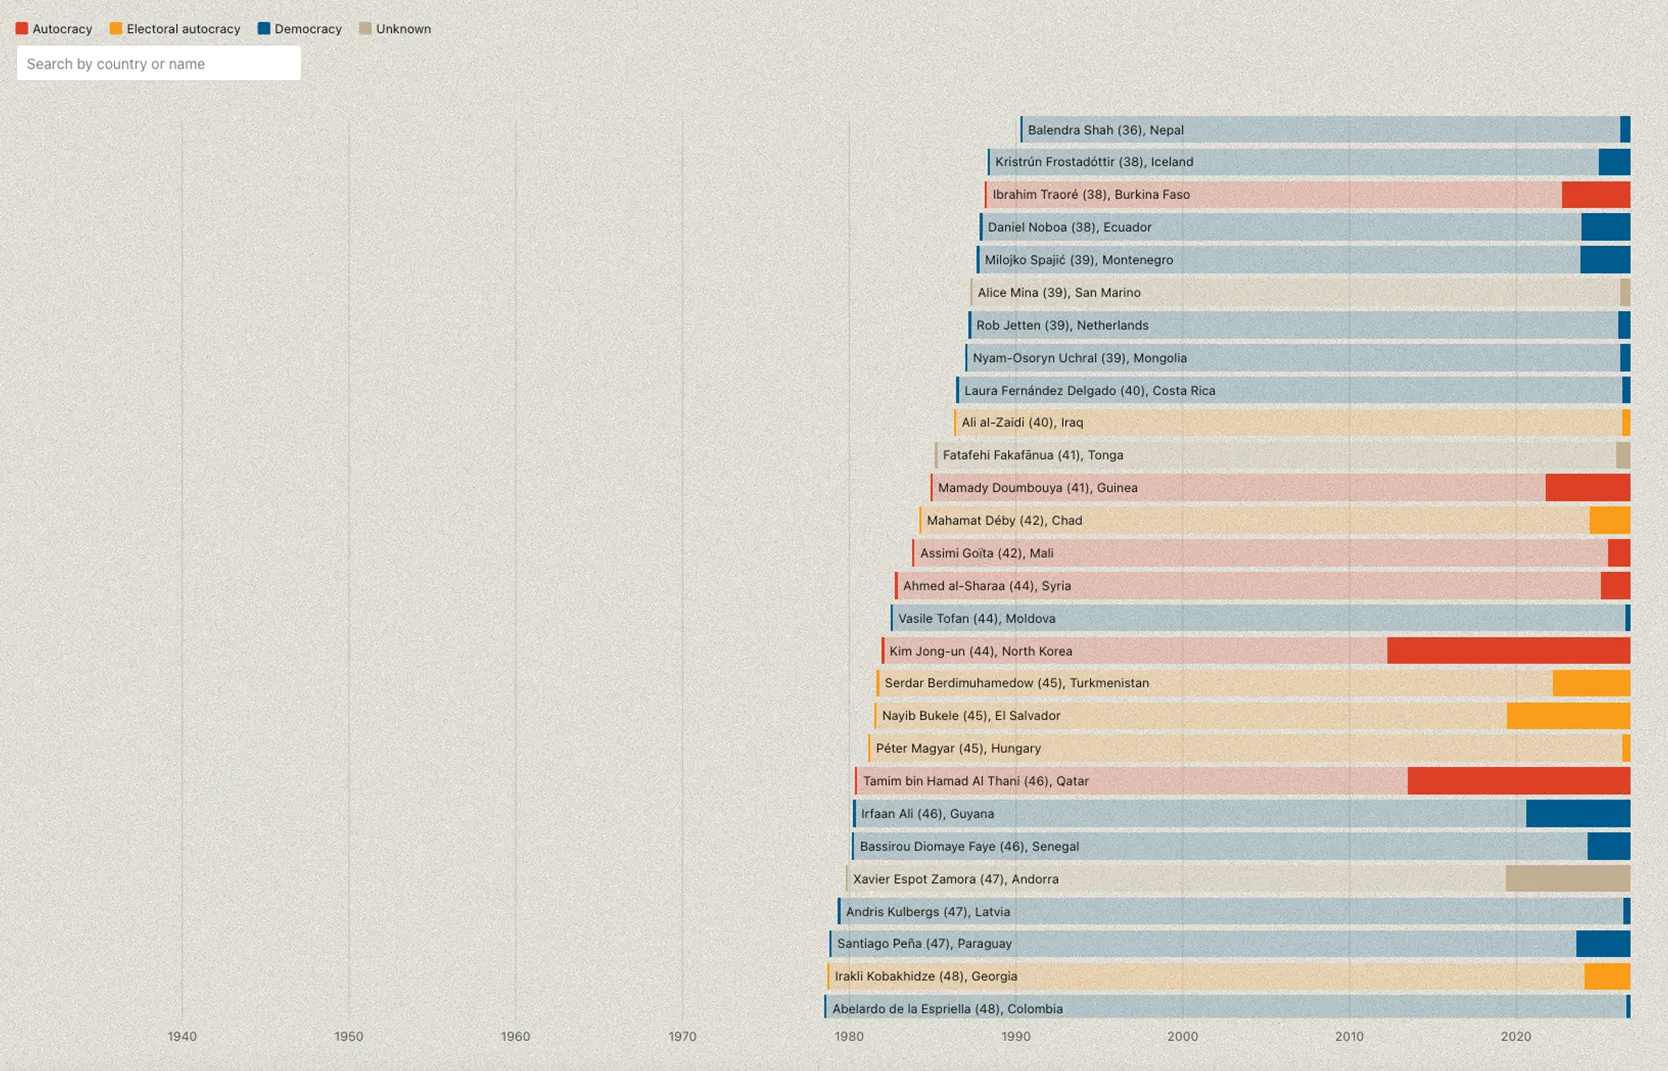
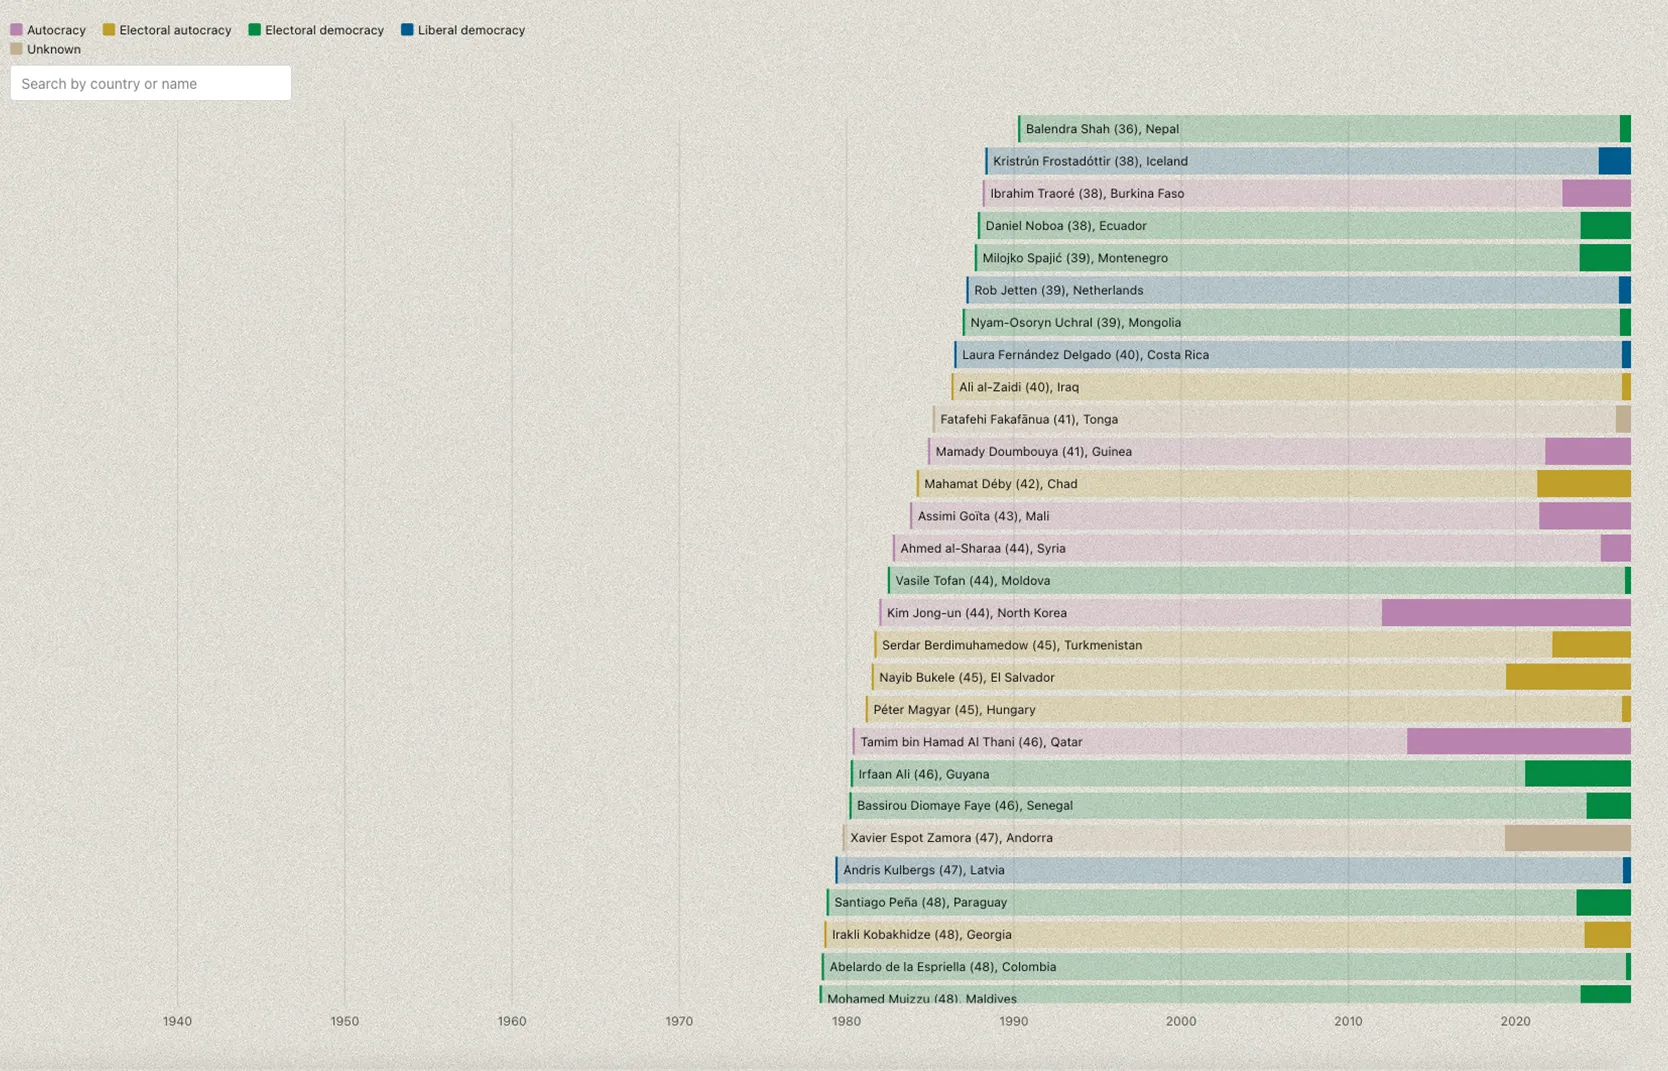
edit leadersage

diff --git a/script.js b/script.js
@@ -259,9 +259,7 @@ function buildProjectCard(proj) {
   card.id = `card-${proj.id}`;
 
   let linkBadge = "";
-  if (proj.id === "leader-age") {
-    linkBadge = `<span class="ext-link-badge disabled">Available soon</span>`;
-  } else if (proj.externalUrl) {
+  if (proj.externalUrl) {
     linkBadge = `<a href="${proj.externalUrl}" target="_blank" rel="noopener" class="ext-link-badge">Open project ↗</a>`;
   }
 
